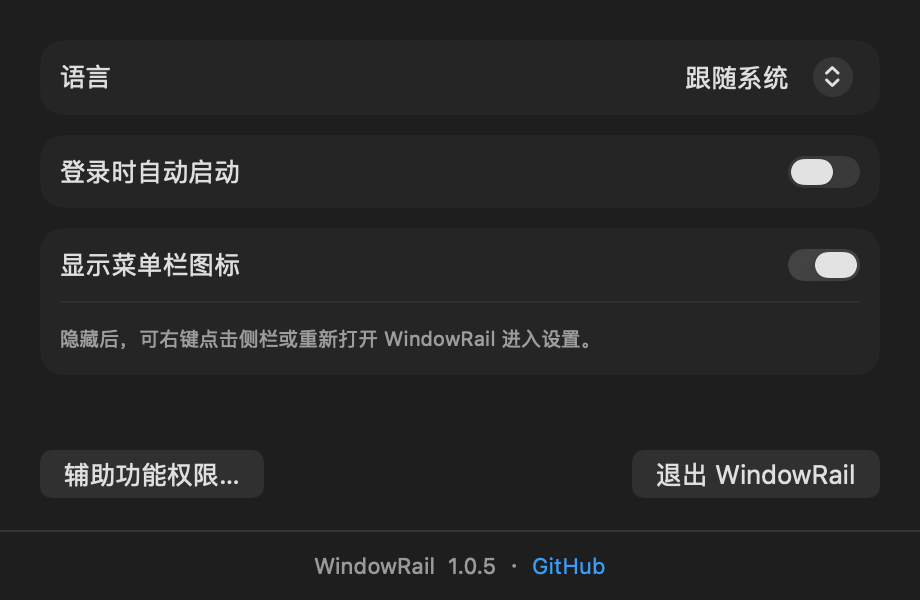
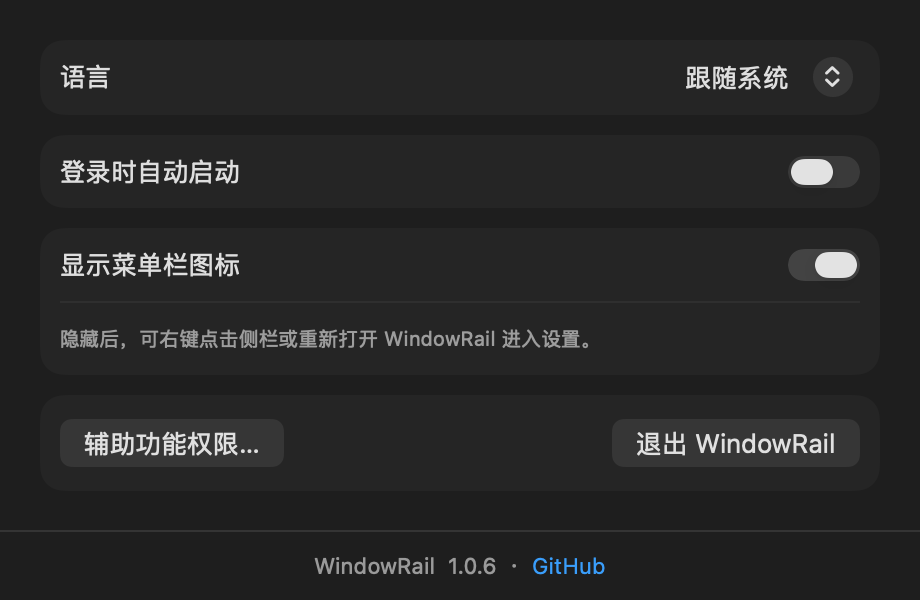
Deduplicate packaged languages and group settings actions

Changed region(s): [[0.6696, 0.72, 0.9435, 0.81], [0.0609, 0.72, 0.2739, 0.81], [0.5174, 0.93, 0.5478, 0.96]]

diff --git a/Tests/WindowRailChecks/main.swift b/Tests/WindowRailChecks/main.swift
@@ -151,3 +151,20 @@ expectEqual(PreferencesModel(defaults: languageDefaults).language, "")
 expectEqual(L10n.currentLanguage, L10n.languageIdentifier(for: ""))
 expectEqual(Set(L10n.availableLanguages), Set(["en", "zh-Hans"]))
 print("PASS: per-key fallback, live language change, persisted selection and system-language reset")
+
+// Reproduce a production .app declaring languages in Info.plist as well as .lproj.
+let packaged = fixture.appendingPathComponent("Packaged.bundle")
+try FileManager.default.createDirectory(at: packaged, withIntermediateDirectories: true)
+for language in ["en", "zh-Hans"] {
+    try FileManager.default.createDirectory(at: packaged.appendingPathComponent("\(language).lproj"), withIntermediateDirectories: true)
+}
+let packagedInfo: [String: Any] = [
+    "CFBundleIdentifier": "local.windowrail.localization-test",
+    "CFBundleLocalizations": ["en", "en", "zh-Hans", "zh-Hans"],
+    "CFBundleDevelopmentRegion": "en"
+]
+try PropertyListSerialization.data(fromPropertyList: packagedInfo, format: .xml, options: 0).write(to: packaged.appendingPathComponent("Info.plist"))
+let packagedBundle = Bundle(path: packaged.path)!
+expectEqual(L10n.languages(in: packagedBundle), ["en", "zh-Hans"])
+expectEqual(L10n.availableLanguages.count, Set(L10n.availableLanguages).count)
+print("PASS: packaged-app languages are unique even when metadata and resources overlap")

diff --git a/Sources/WindowRail/Views/PreferencesView.swift b/Sources/WindowRail/Views/PreferencesView.swift
@@ -35,19 +35,20 @@ struct PreferencesView: View {
                     Text(L10n.text(.menuBarHelp))
                         .font(.caption).foregroundStyle(.secondary)
                 }
+                Section {
+                    HStack {
+                        Button(L10n.text(.accessibilityOpen), action: openPermissions)
+                        Spacer()
+                        Button(L10n.text(.appQuit), action: quit)
+                    }
+                    .buttonStyle(.bordered)
+                    .controlSize(.regular)
+                    .padding(.vertical, 2)
+                }
                 if let message = preferences.errorMessage {
                     Text(message).font(.caption).foregroundStyle(.red).textSelection(.enabled)
                 }
             }.formStyle(.grouped)
-            HStack {
-                Button(L10n.text(.accessibilityOpen), action: openPermissions)
-                Spacer()
-                Button(L10n.text(.appQuit), action: quit)
-            }
-            .controlSize(.regular)
-            .padding(.horizontal, 20)
-            .padding(.bottom, 16)
-
             Divider()
             HStack(spacing: 6) {
                 Text("WindowRail")

diff --git a/Sources/WindowRail/Services/L10n.swift b/Sources/WindowRail/Services/L10n.swift
@@ -42,7 +42,11 @@ enum L10n {
 
     /// Language identifiers come from bundled resources; an empty choice follows macOS.
     static var availableLanguages: [String] {
-        resources.localizations.filter { $0 != "Base" }.sorted()
+        languages(in: resources)
+    }
+    static func languages(in bundle: Bundle) -> [String] {
+        // Foundation may report a language once from Info.plist and again from .lproj.
+        Array(Set(bundle.localizations.filter { $0 != "Base" })).sorted()
     }
     static func validChoice(_ identifier: String) -> String {
         availableLanguages.contains(identifier) ? identifier : ""
